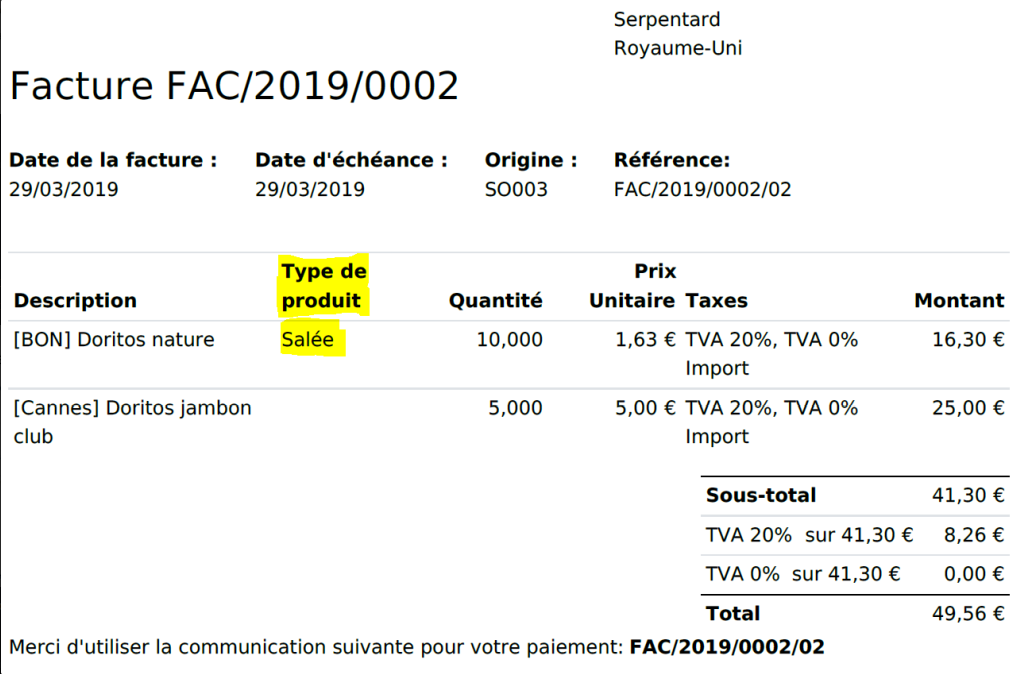
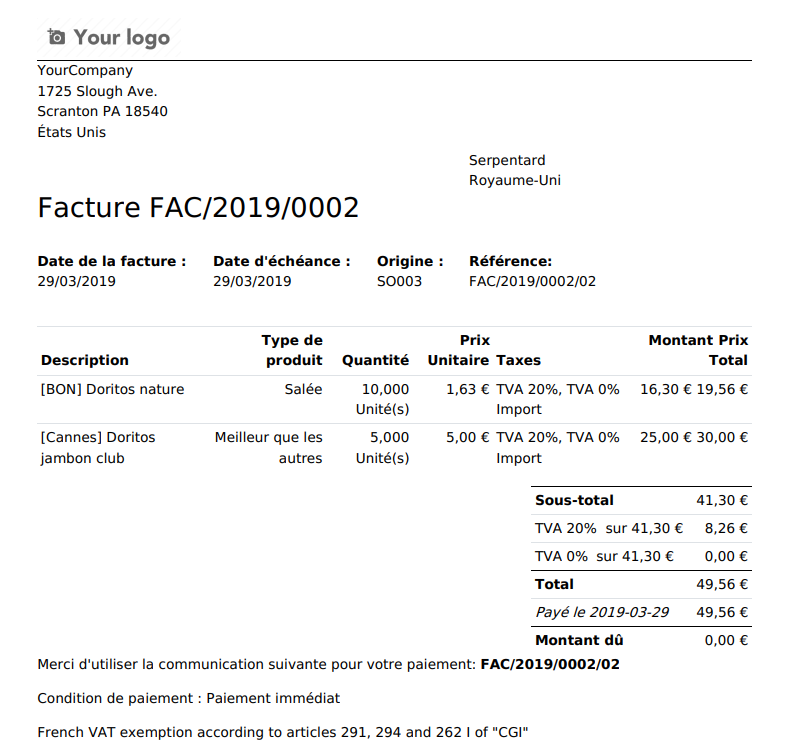
fin de la partie développement

diff --git a/__manifest__.py b/__manifest__.py
@@ -22,15 +22,13 @@
     'depends': ['base','product','account','sale'],
 
     # always loaded
-    'data': [
-	'security/ir.model.access.csv',
-	'views/type.xml',
-	'views/devis.xml',
-	'views/facture.xml',
+    'data': 
+    [
+        'security/ir.model.access.csv',
+        'views/type.xml',
+        'views/devis.xml',
+        'views/facture.xml',
         'views/typeProduct_View.xml'
- 	#'views/type.xml',1
-        # 'views/views.xml',
-        # 'views/templates.xml',
     ],
 
     'application':True,

diff --git a/documentation/docs/dev.md b/documentation/docs/dev.md
@@ -75,7 +75,7 @@ Dans un premier temps nous avons modifié le report du devis
 
 ![Screenshot](img/devis_type_product.PNG)
 
-Nous avons modifié le report_invoices_document, afin d'ajouter le champ "type produit"
+Nous avons créé une template XML qui s'injecte directement dans le report_saleorder_document
 
 ![Screenshot](img/devis_code.PNG)
 
@@ -83,6 +83,9 @@ Puis nous avons modifié le report de facture
 
 ![Screenshot](img/facture_type_product.PNG)
 
+Nous avons créé une templmate XMl qui s'injecte directement dans le report_invoice_document
+
+![Screenshot](img/facture_code.PNG)
 
 ## Créer un report qui permet de donner un topos sur les ventes des produit en les classant par type
 
